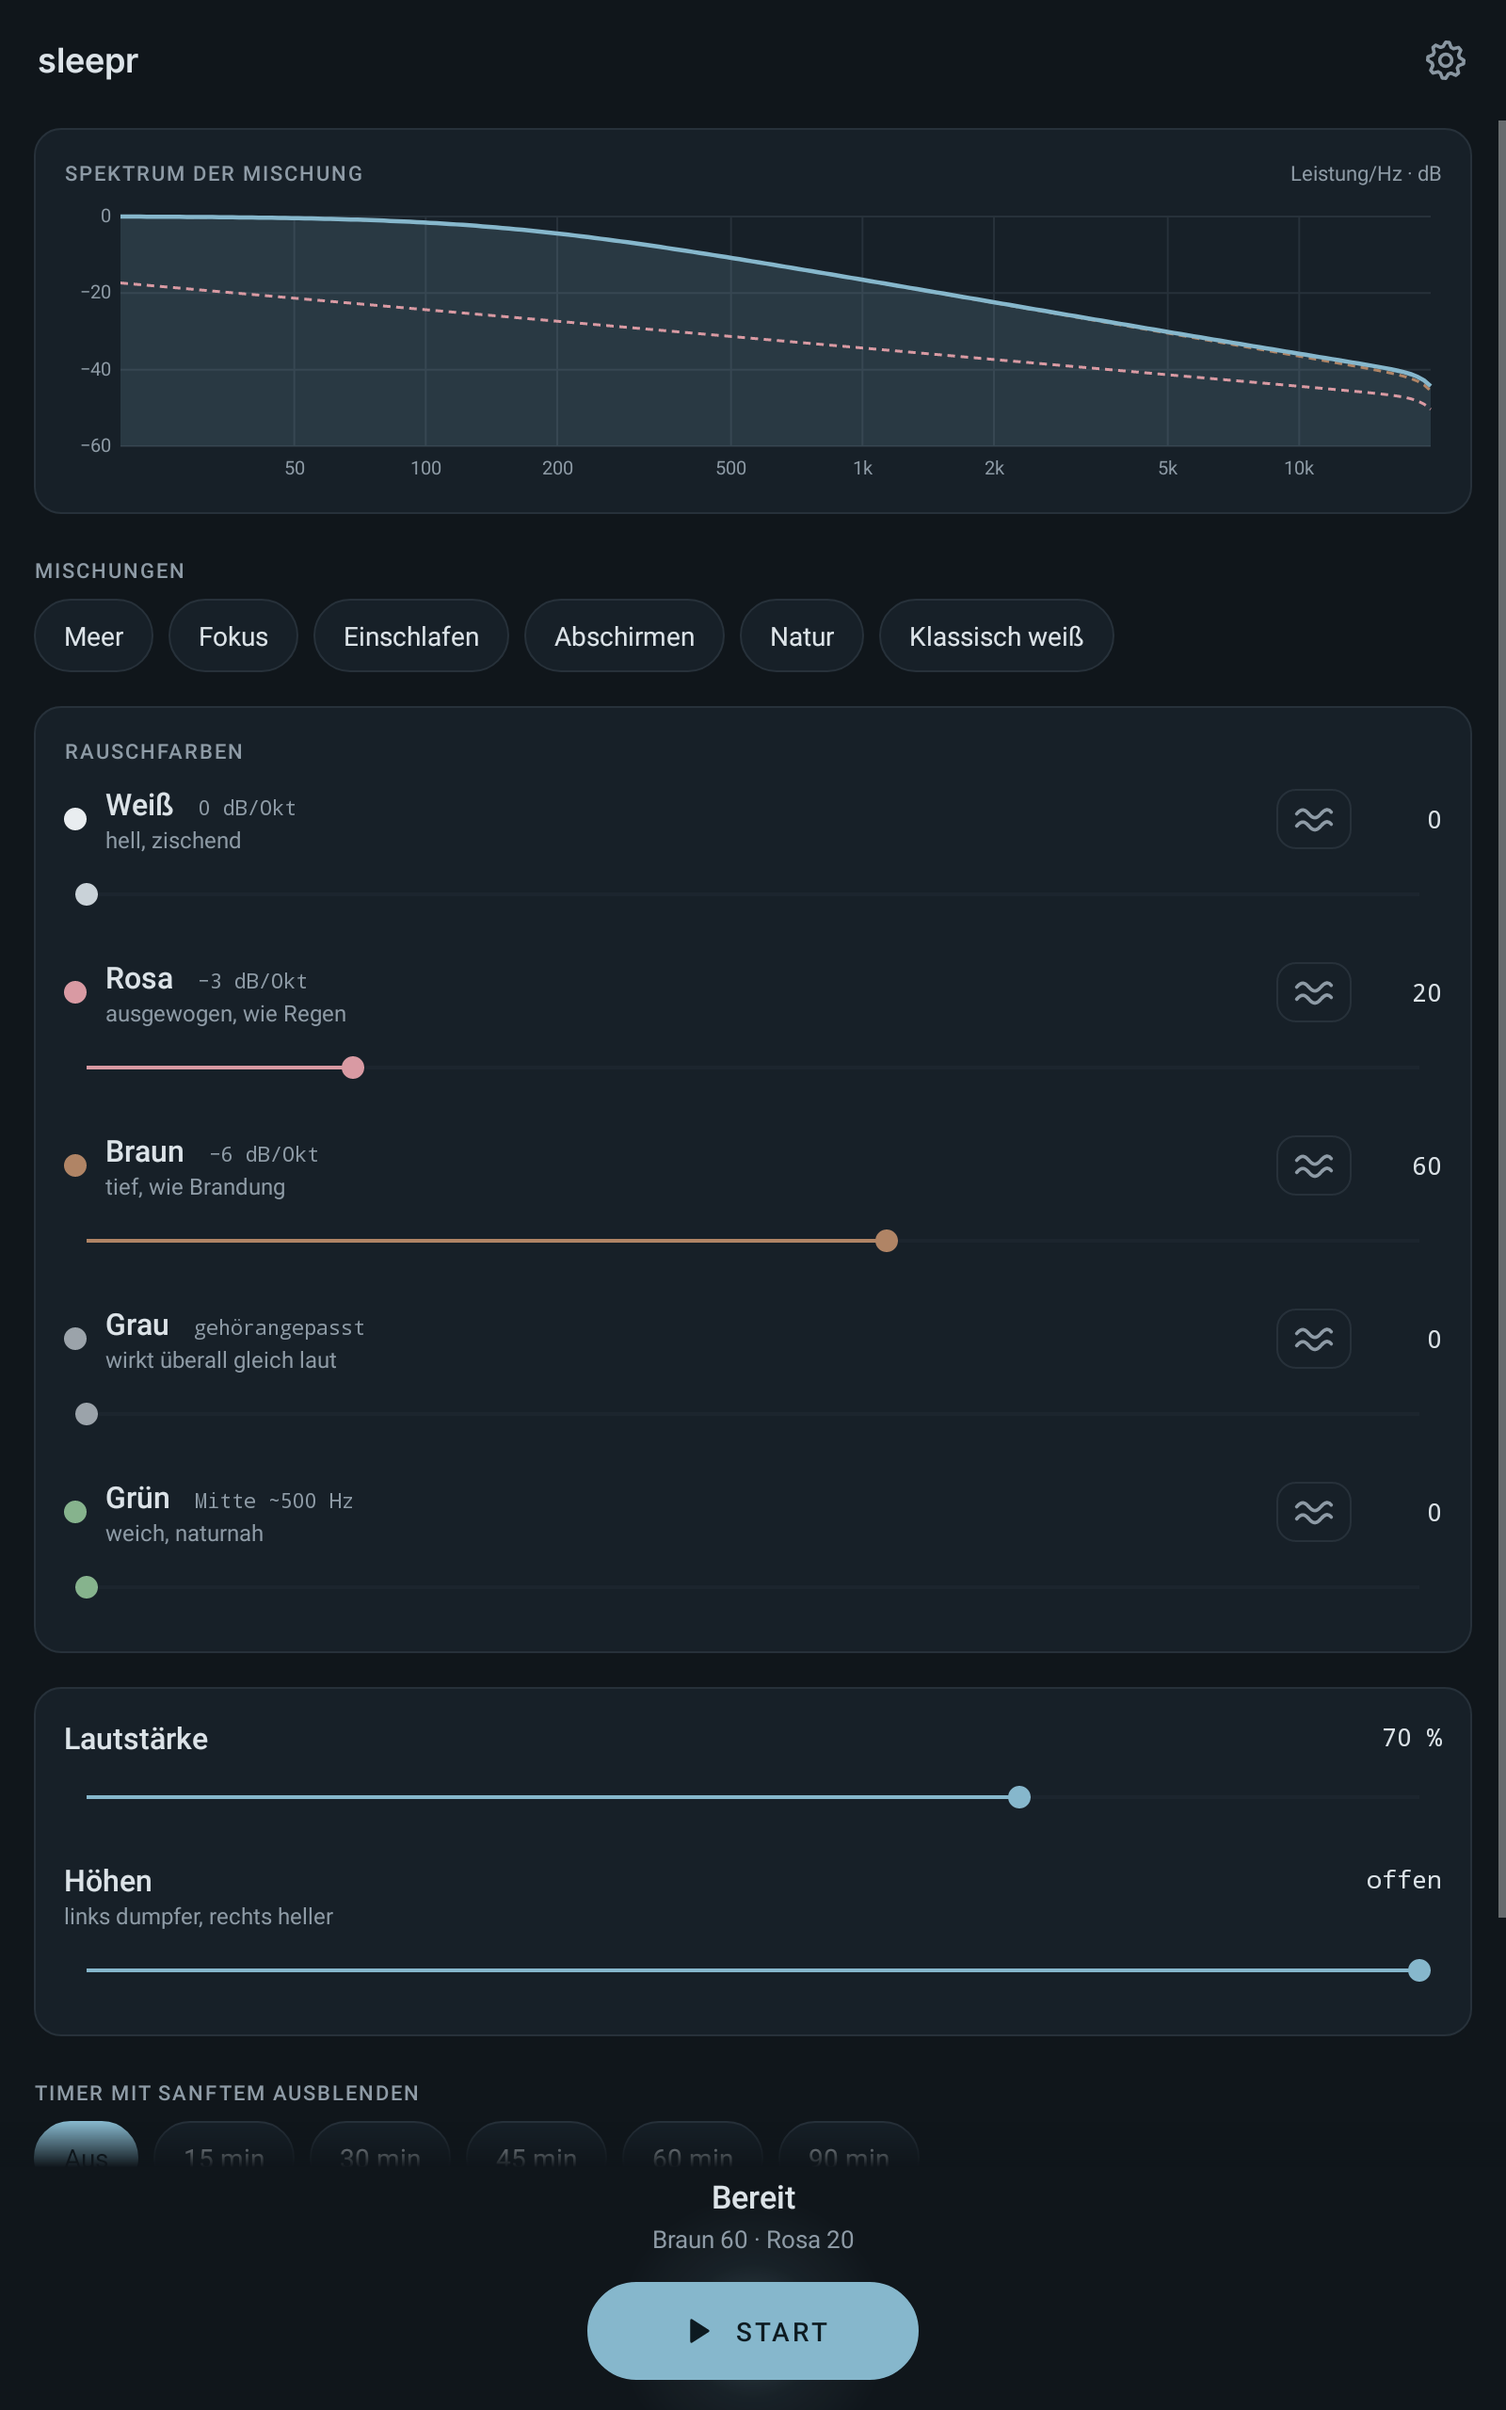
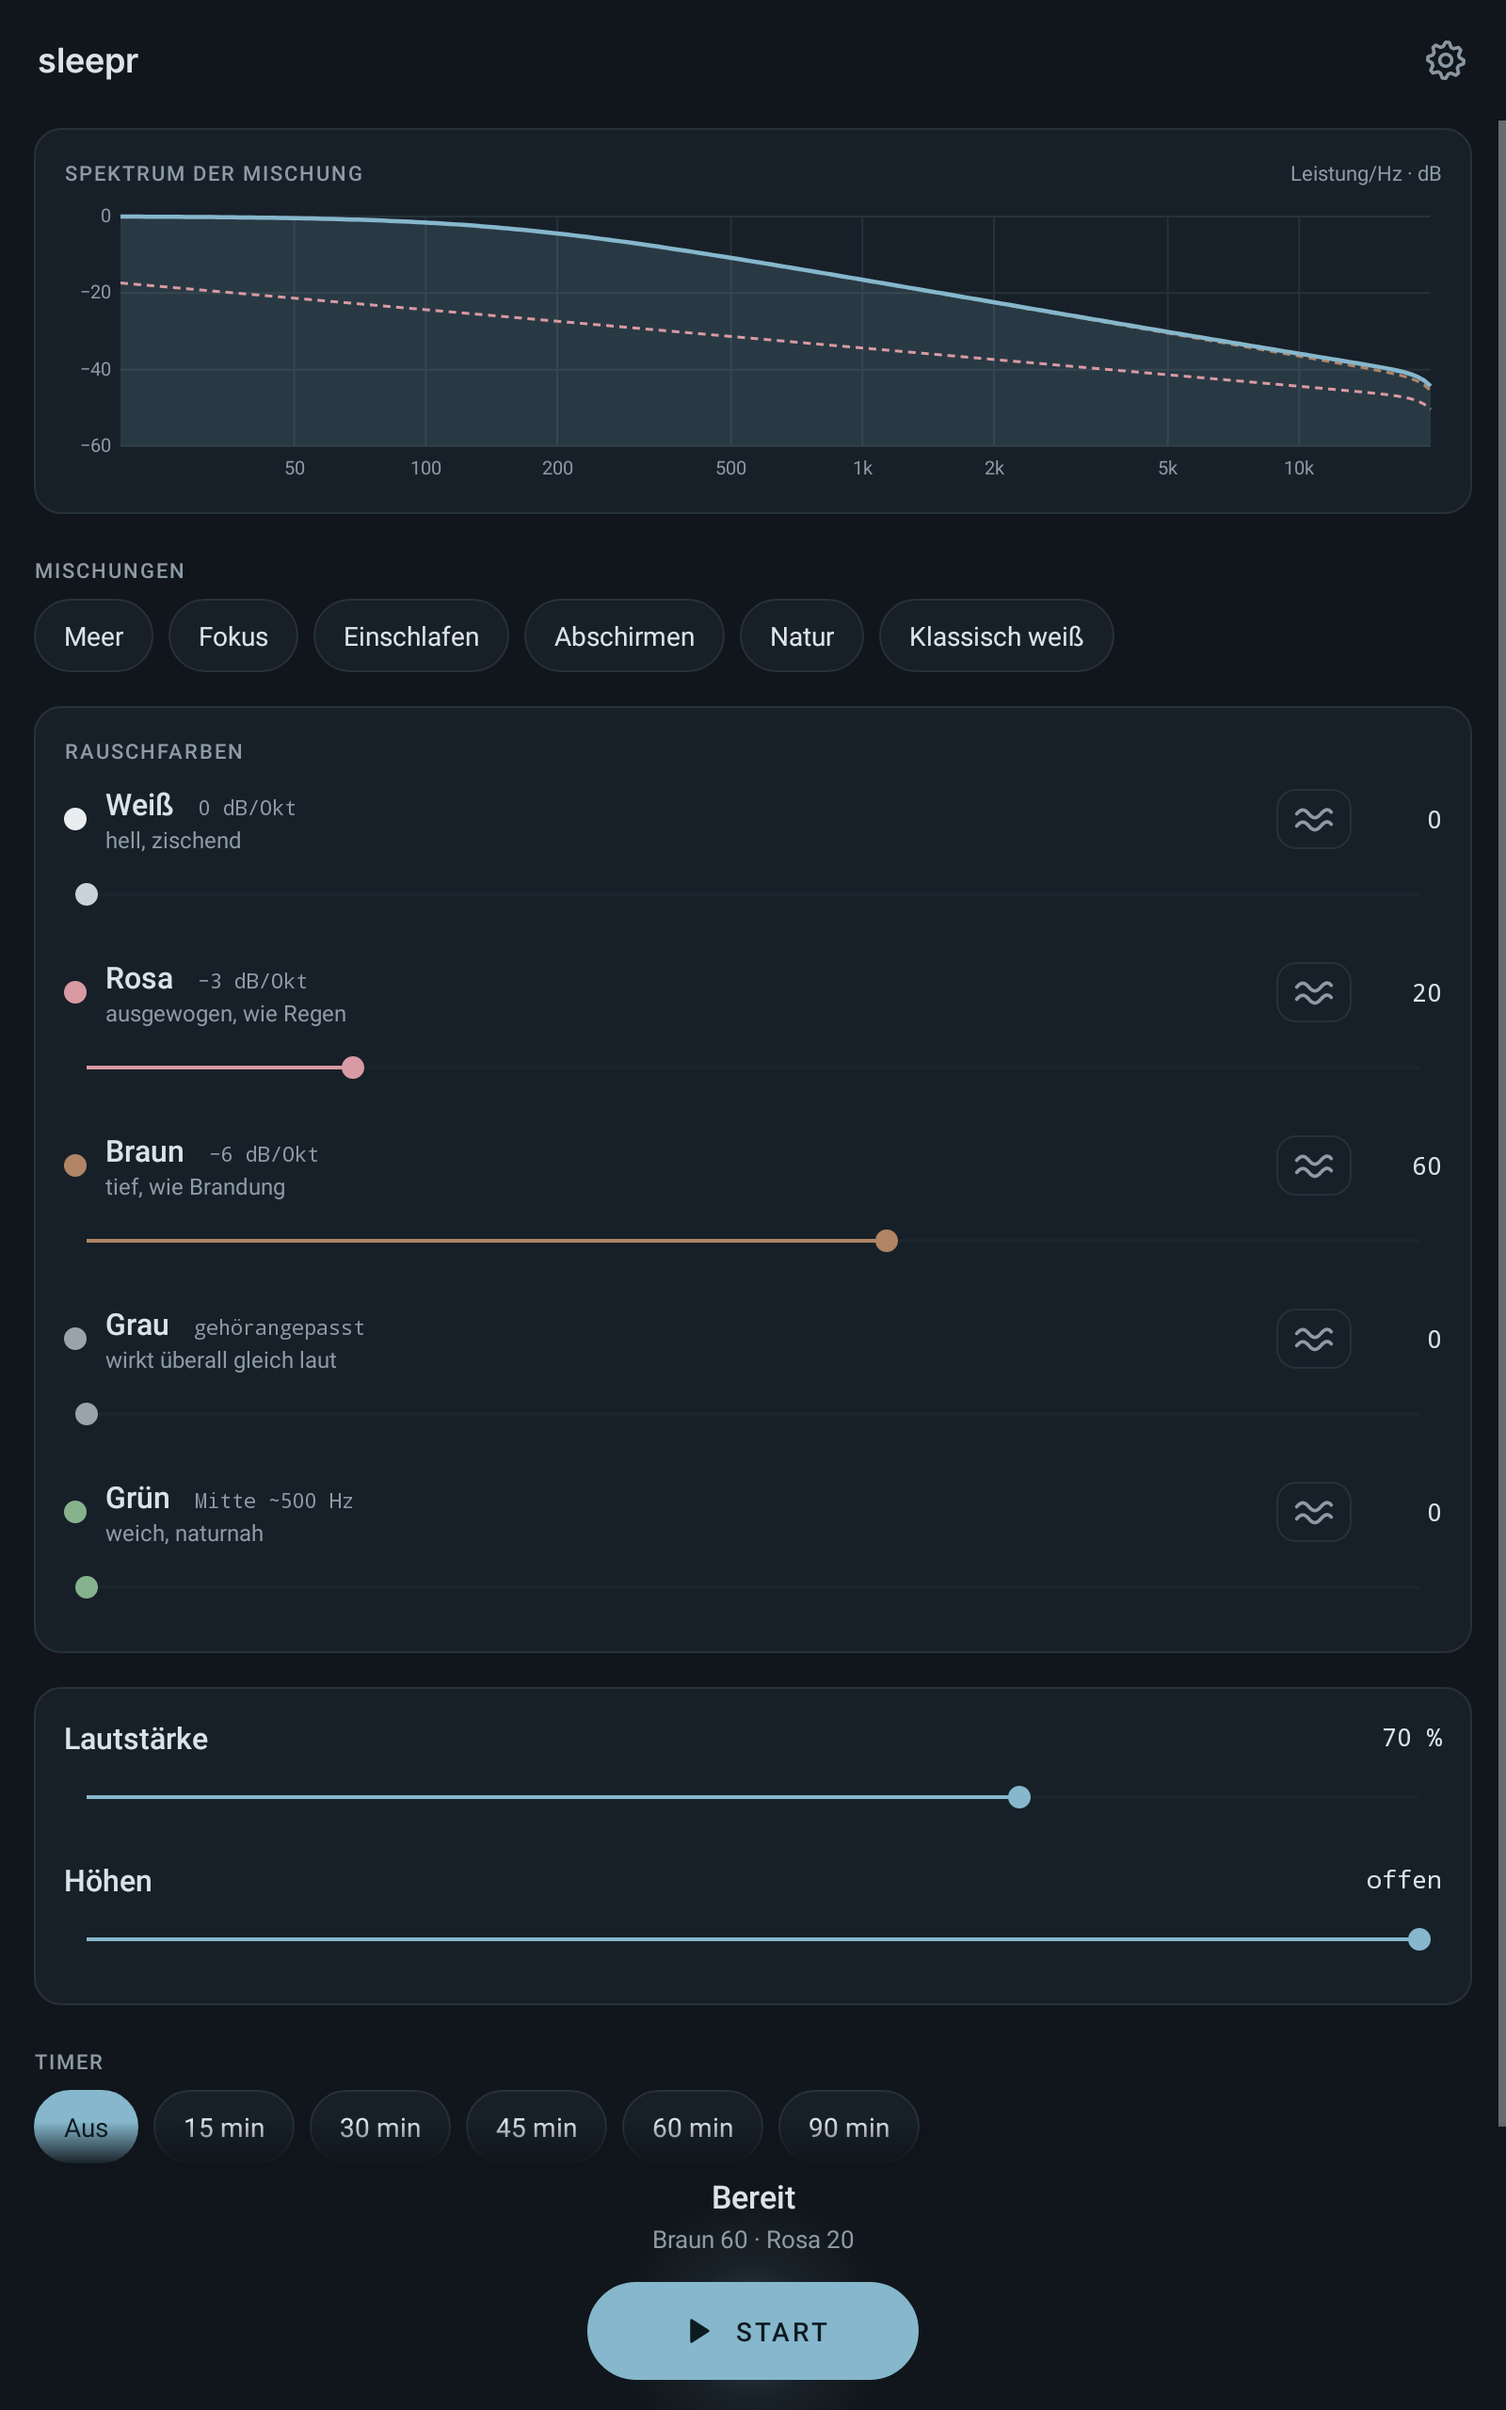
sleepr: Erklärtexte vom Hauptschirm entfernt

diff --git a/apps/sleepr/src/test/kotlin/solutions/xapient/sleepr/screenshots/SleeprScreenshotTest.kt b/apps/sleepr/src/test/kotlin/solutions/xapient/sleepr/screenshots/SleeprScreenshotTest.kt
@@ -3,6 +3,8 @@ package solutions.xapient.sleepr.screenshots
 import android.graphics.Bitmap
 import android.graphics.Canvas
 import android.view.View
+import android.view.ViewGroup
+import android.widget.ScrollView
 import com.github.takahirom.roborazzi.RobolectricDeviceQualifiers
 import com.github.takahirom.roborazzi.RoborazziOptions
 import com.github.takahirom.roborazzi.captureRoboImage
@@ -33,6 +35,8 @@ class SleeprScreenshotTest {
 
     @Test fun idle() = shot("idle")
     @Test fun playing() { setEngine(fakeEngine()); shot("playing") }
+    // Liste ganz unten: Timer als Abschluss, keine Erklärtexte
+    @Test fun idle_bottom() = shot("idle_bottom", bottom = true)
     @Test fun idle_land() = shot("idle_land", "+land")
     @Test fun idle_font200() = shot("idle_font200", fontScale = 2f)
     @Test fun idle_tablet() = shot("idle_tablet", "w800dp-h1280dp-port-xhdpi")
@@ -56,7 +60,7 @@ class SleeprScreenshotTest {
     private fun plain() = Display(RuntimeEnvironment.getApplication()).run { showWaves = false; showMixes = false }
 
     // Hauptbildschirm als Ganzes rendern (Views, kein Compose); Standard deutsch wie bisher, _en englisch
-    private fun shot(name: String, qualifiers: String? = null, fontScale: Float = 1f, screen: MainActivity.Screen = MainActivity.Screen.MAIN, lang: String = "de") {
+    private fun shot(name: String, qualifiers: String? = null, fontScale: Float = 1f, screen: MainActivity.Screen = MainActivity.Screen.MAIN, lang: String = "de", bottom: Boolean = false) {
         if (qualifiers != null) RuntimeEnvironment.setQualifiers(qualifiers)
         RuntimeEnvironment.setQualifiers("+$lang")
         if (fontScale != 1f) RuntimeEnvironment.setFontScale(fontScale)
@@ -69,9 +73,16 @@ class SleeprScreenshotTest {
             View.MeasureSpec.makeMeasureSpec(dm.heightPixels, View.MeasureSpec.EXACTLY),
         )
         root.layout(0, 0, dm.widthPixels, dm.heightPixels)
+        if (bottom) scrollAll(root)
         val bmp = Bitmap.createBitmap(dm.widthPixels, dm.heightPixels, Bitmap.Config.ARGB_8888)
         root.draw(Canvas(bmp))
         bmp.captureRoboImage("screenshots/$name.png", options)
+    }
+
+    // Alle ScrollViews ans Ende scrollen
+    private fun scrollAll(v: View) {
+        if (v is ScrollView && v.childCount > 0) v.scrollTo(0, maxOf(0, v.getChildAt(0).height - v.height))
+        if (v is ViewGroup) for (i in 0 until v.childCount) scrollAll(v.getChildAt(i))
     }
 
     // Engine mit laufendem Status und Timer, ohne Audio-Thread zu starten

diff --git a/apps/sleepr/src/main/kotlin/solutions/xapient/sleepr/MainActivity.kt b/apps/sleepr/src/main/kotlin/solutions/xapient/sleepr/MainActivity.kt
@@ -212,12 +212,11 @@ class MainActivity : Activity() {
             addView(row(text(getString(R.string.volume), 16f, FG, bold = true), masterVal))
             addView(masterSeek, lp(2))
             addView(row(text(getString(R.string.treble), 16f, FG, bold = true), toneVal), lp(14))
-            addView(text(getString(R.string.treble_hint), 12f, MUTED))
             addView(toneSeek, lp(2))
         })
 
         // Timer
-        add(label(getString(R.string.timer_label)), 22)
+        add(label(getString(R.string.group_timer)), 22)
         add(chipRow(Mixer.TIMERS.map { t ->
             chip(if (t == 0) getString(R.string.timer_off) else getString(R.string.timer_chip, t)) {
                 Mixer.timer = t; Mixer.save(this); syncTimers()
@@ -229,8 +228,6 @@ class MainActivity : Activity() {
                 timerChips += t to it
             }
         }), 8)
-
-        add(text(getString(R.string.hint), 13f, MUTED), 26)
 
         val scroll = ScrollView(this).apply { setBackgroundColor(BG); isFillViewport = true; addView(col) }
         val match = ViewGroup.LayoutParams.MATCH_PARENT

diff --git a/apps/sleepr/src/main/kotlin/solutions/xapient/sleepr/Pages.kt b/apps/sleepr/src/main/kotlin/solutions/xapient/sleepr/Pages.kt
@@ -73,6 +73,9 @@ class Pages(private val a: Activity, private val look: Look) {
                 group(a.getString(R.string.group_waves), this@page).apply {
                     addView(body(a.getString(R.string.explain_waves), muted).apply { setPadding(dp(18), dp(16), dp(18), dp(16)) })
                 }
+                group(a.getString(R.string.group_volume), this@page).apply {
+                    addView(body(a.getString(R.string.explain_volume), muted).apply { setPadding(dp(18), dp(16), dp(18), dp(16)) })
+                }
                 group(a.getString(R.string.group_timer), this@page).apply {
                     addView(body(a.getString(R.string.explain_timer), muted).apply { setPadding(dp(18), dp(16), dp(18), dp(16)) })
                 }

diff --git a/apps/sleepr/SPEC.md b/apps/sleepr/SPEC.md
@@ -14,7 +14,7 @@ Rauschgenerator zum Abschirmen von Störgeräuschen, Konzentrieren und Einschlaf
 - Hintergrund: Foreground-Service `mediaPlayback` mit MediaSession und Benachrichtigung (Mischung, Timer, Stopp; auch am Sperrbildschirm). Audio-Fokus: Verlust (auch kurzzeitig, z. B. Anruf) = Stopp.
 - Mischung, Lautstärke, Höhen und Timer überstehen Neustart (SharedPreferences). Nach Prozess-Tod spielt nichts von selbst.
 - Hoch- und Querformat, lesbar bei 200 % Schrift. Edge-to-edge, Inhalt im sicheren Bereich.
-- Einstellungen hinter dem Zahnrad oben rechts: „Wellen-Schalter anzeigen“ und „Mischungen anzeigen“ (beide Standard an, SharedPreferences `app`, überstehen Drehen und Neustart). Aus = nur die Bedienelemente verschwinden, laufende Wellen und Mischung bleiben. Mischungen lassen sich dort immer laden. Dazu Erklärungen zu Rauschfarben, Wellen, Mischungen und Timer sowie die Info-Seite (Version, Versprechen, Quellcode, Datenschutz, GPLv3). Zurück-Taste/-Geste schließt Info bzw. Einstellungen.
+- Einstellungen hinter dem Zahnrad oben rechts: „Wellen-Schalter anzeigen“ und „Mischungen anzeigen“ (beide Standard an, SharedPreferences `app`, überstehen Drehen und Neustart). Aus = nur die Bedienelemente verschwinden, laufende Wellen und Mischung bleiben. Mischungen lassen sich dort immer laden. Dazu Erklärungen zu Rauschfarben, Wellen, Mischungen, Lautstärke/Höhen und Timer sowie die Info-Seite (Version, Versprechen, Quellcode, Datenschutz, GPLv3). Zurück-Taste/-Geste schließt Info bzw. Einstellungen.
 
 ## Berechtigungen
 | Berechtigung | Grund |
@@ -37,14 +37,15 @@ Kein INTERNET, kein VIBRATE (sleepr nutzt `core/ui` nicht). Haptik wie `press()`
 - Kein Ausblenden fremder Apps (das macht dozr).
 
 ## Screens
-1. **Mixer**: Kopfzeile wie die anderen aapps (64 dp, „sleepr“ in Inter SemiBold 18 sp links, Zahnrad rechts); Karte „Spektrum der Mischung“; Mischungen als Chips; Karte Rauschfarben (Farbpunkt, Name, Steigung, Hinweis, Wellen-Schalter, Wert, Regler, bei aktiven Wellen Regler für die Wellenlänge); Karte Lautstärke und Höhen; Timer-Chips; Hinweistext. Hauptaktion START/STOP als Pille unten mittig mit Glow, Status („Bereit“, „Läuft · noch m:ss“, „Blendet aus · …“) und Mischung darüber. Hochformat: Leiste unten fest, Inhalt scrollt darüber und blendet weich aus. Querformat: Kopfzeile über die ganze Breite, darunter Status und Pille links, Inhalt rechts.
-2. **Einstellungen**: Gruppen Anzeige (zwei Schalter), Mischungen (Kurztext, sechs Mischungen mit Zusammensetzung, aktive mit Haken), Rauschfarben, Wellen, Timer (Erklärtexte), Info.
+1. **Mixer**: Kopfzeile wie die anderen aapps (64 dp, „sleepr“ in Inter SemiBold 18 sp links, Zahnrad rechts); Karte „Spektrum der Mischung“; Mischungen als Chips; Karte Rauschfarben (Farbpunkt, Name, Steigung, Hinweis, Wellen-Schalter, Wert, Regler, bei aktiven Wellen Regler für die Wellenlänge); Karte Lautstärke und Höhen; Timer-Chips. Keine Erklärtexte auf dem Hauptschirm (nur Bedien-Labels, Überschriften und die Kurzbeschreibung je Rauschfarbe), Erklärungen stehen in den Einstellungen. Hauptaktion START/STOP als Pille unten mittig mit Glow, Status („Bereit“, „Läuft · noch m:ss“, „Blendet aus · …“) und Mischung darüber. Hochformat: Leiste unten fest, Inhalt scrollt darüber und blendet weich aus. Querformat: Kopfzeile über die ganze Breite, darunter Status und Pille links, Inhalt rechts.
+2. **Einstellungen**: Gruppen Anzeige (zwei Schalter), Mischungen (Kurztext, sechs Mischungen mit Zusammensetzung, aktive mit Haken), Rauschfarben, Wellen, Lautstärke und Höhen, Timer (Erklärtexte), Info.
 3. **Info**: App-Icon, Name, Version (BuildConfig aus `version.txt`), Kurztext, Versprechen (keine Werbung, kein Tracking, keine Internet-Berechtigung), Quellcode-Link, Hinweise Datenschutz und Hintergrund, Lizenz, Schriften.
 
 ## Screenshot-Zustände (Roborazzi, `apps/sleepr/screenshots/`)
 | Name | Inhalt |
 |---|---|
 | `idle` | Standardmischung (Rosa 20, Braun 60), gestoppt |
+| `idle_bottom` | wie `idle`, Liste ganz unten (Timer als Abschluss) |
 | `playing` | läuft, Timer mit Restzeit |
 | `idle_land`, `idle_font200`, `idle_tablet` | Querformat, 200 % Schrift, Tablet 800 × 1280 dp |
 | `idle_plain`, `idle_plain_land` | Wellen-Schalter und Mischungen ausgeblendet |
